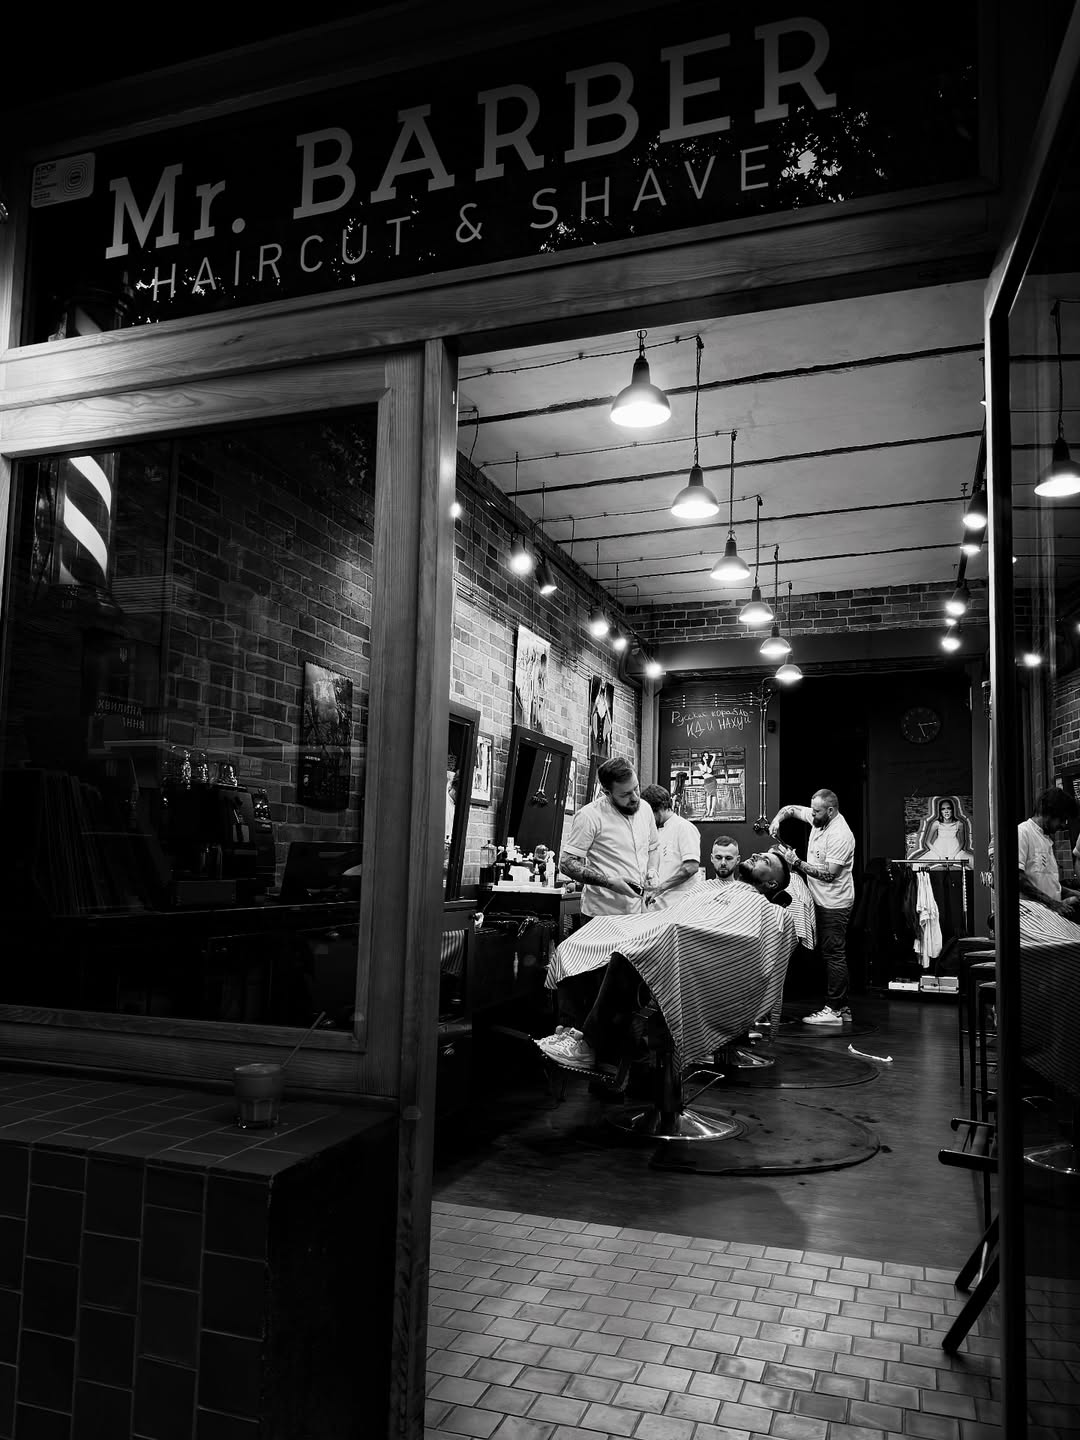
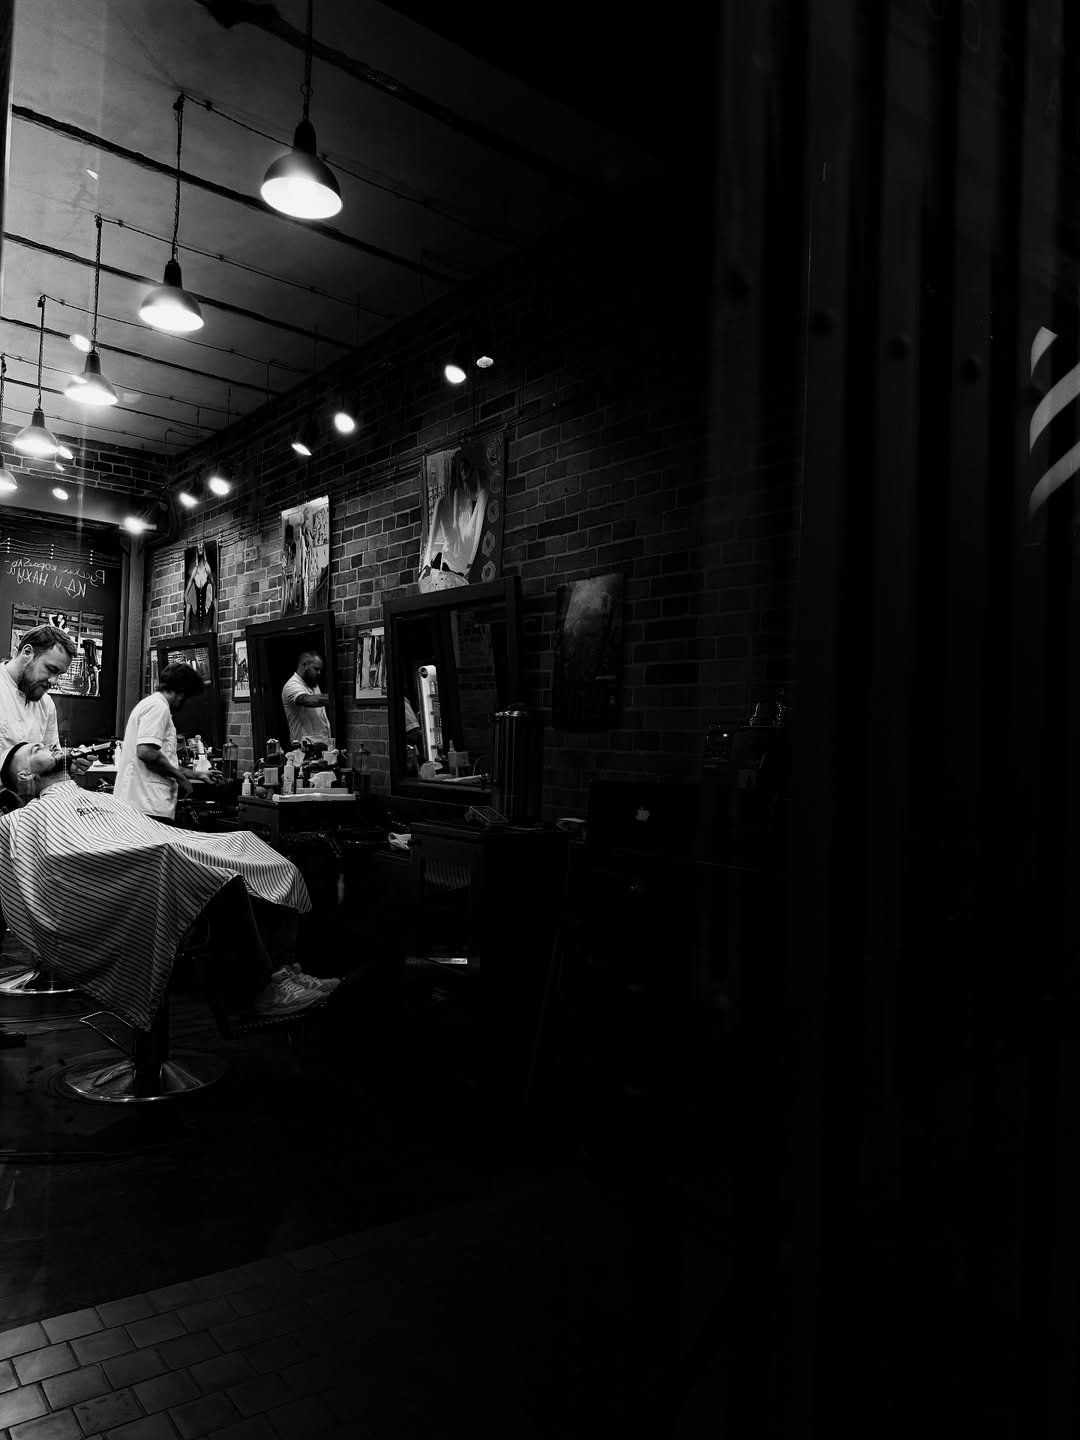
update 2.1

diff --git a/sections.jsx b/sections.jsx
@@ -107,6 +107,8 @@ const LOCATIONS = [
     hours: '10:00 — 20:00 · пн — сб',
     map: 'https://www.google.com/maps/search/?api=1&query=48.45768400438368%2C35.06076690572978',
     coord: '48.4577° N, 35.0608° E',
+    /* фото: покладіть файл у MrBarber/assets/ і змініть ім’я/розширення за потреби */
+    photo: 'assets/filial-02.jpg',
   },
 ];
 
@@ -124,9 +126,9 @@ const SERVICES = [
 ];
 
 const MASTERS = [
-  { id: 'ilya',   num: '01', name: 'Ілля',   img: 'assets/master-2.png', spec: 'Барбер',     exp: '5+ років', cuts: '2000+' },
-  { id: 'sergey', num: '02', name: 'Сергій', img: 'assets/master-3.png', spec: 'Барбер',     exp: '5+ років', cuts: '2000+' },
-  { id: 'dmytro', num: '03', name: 'Дмитро', img: 'assets/master-1.png', spec: 'Барбер',     exp: '5+ років', cuts: '2000+' },
+  { id: 'ilya',   num: '01', name: 'Ілля',   img: 'assets/master-2.jpg', spec: 'Барбер',     exp: '5+ років', cuts: '2000' },
+  { id: 'sergey', num: '02', name: 'Сергій', img: 'assets/master-3.jpg', spec: 'Барбер',     exp: '5+ років', cuts: '5000' },
+  { id: 'dmytro', num: '03', name: 'Дмитро', img: 'assets/master-1.jpg', spec: 'Барбер',     exp: '5+ років', cuts: '3000' },
 ];
 
 const REVIEWS = [
@@ -538,7 +540,10 @@ function Masters({ onBook }) {
               <div className="mast-body">
                 <div className="mast-row"><span>Досвід</span><strong>{m.exp}</strong></div>
                 <div className="mast-row"><span>Стрижок</span><strong>{m.cuts}</strong></div>
-                <div className="mast-row"><span>Філіал</span><strong>2 адреси в Дніпрі</strong></div>
+                <div className="mast-row">
+                  <span>Філіал</span>
+                  <strong>{LOCATIONS[0].tag} · {LOCATIONS[0].name}</strong>
+                </div>
                 <button className="btn btn-ghost mast-cta" onClick={() => onBook(null, null, m.id)}>Записатися до майстра</button>
               </div>
             </div>

diff --git a/styles.css b/styles.css
@@ -247,6 +247,9 @@ section{position:relative;}
 .section-head h2{font-family:var(--display);font-weight:600;font-size:clamp(40px,5.5vw,72px);text-transform:uppercase;line-height:0.95;letter-spacing:-0.01em;}
 .section-head h2 .red{color:var(--red);}
 .section-head .lead{max-width:380px;font-size:14px;color:var(--paper-dim);line-height:1.6;}
+@media (min-width:901px){
+  .services .section-head .lead{max-width:none;white-space:nowrap;}
+}
 
 /* locations */
 .locations{background:var(--ink-2);}
